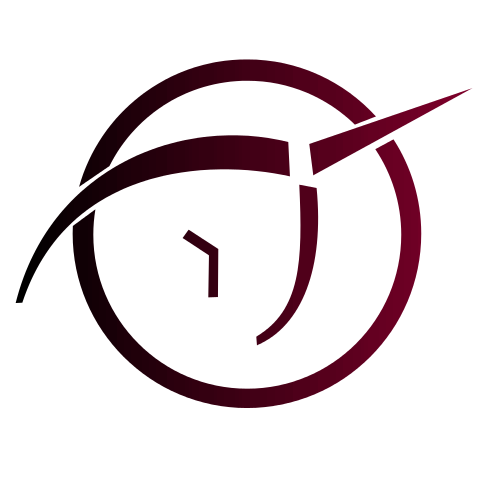
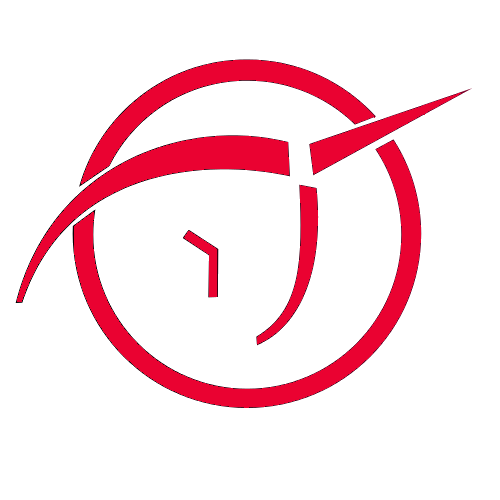
modif du css

diff --git a/ArtcoreParent/ArtcoreWeb/WebContent/web/css/catalogue.css b/ArtcoreParent/ArtcoreWeb/WebContent/web/css/catalogue.css
@@ -21,6 +21,8 @@ table {
 	/*background-color: yellow;*/
 	border-collapse: none;
 }
+
+
 tr {
 	/*background-color: green; prend toute la place de la table*/
 	float: left;
@@ -29,6 +31,10 @@ tr {
 	width: 275px;
 	height : 250px;
 	text-align: center;
+	border: 1px solid #202020;
+    border-radius: 3px;
+    -webkit-box-shadow: 0 2px 5px rgba(0, 0, 0, 0.5);
+    box-shadow: 0 2px 5px rgba(0, 0, 0, 0.5);
 			
 	
 } 
@@ -37,15 +43,18 @@ td {
 	display: block;
 		
 	background: #525252;
-	border: 1px solid #202020;
-    border-radius: 3px;
-    -webkit-box-shadow: 0 2px 5px rgba(0, 0, 0, 0.5);
-    box-shadow: 0 2px 5px rgba(0, 0, 0, 0.5);
+	
+	
+}
+
+.prod tbody tr td a{
+	
+	color: rgb(5,157,231);
 	
 }
 /*Tous les attributs d'un produit : */
 .prodNom {
-	color: blue;
+	color: rgb(5,157,231);
 	width: 100%;
 	font-size: 1.5em;
 }
@@ -131,12 +140,12 @@ html .wrap .form input[type="text"]:focus {
 
 html .wrap .form input[type="text"],
 .button7 {
-   background: #545454;
-   background: -webkit-gradient(linear, left top, left bottom, from(#313538), to(#545454));
-   background: -webkit-linear-gradient(top, #313538, #545454);
-   background: -moz-linear-gradient(top, #313538, #545454);
-   background: -ms-linear-gradient(top, #313538, #545454);
-   background: -o-linear-gradient(top, #313538, #545454);
+   background: #525252;
+   background: -webkit-gradient(linear, left top, left bottom, from(#313538), to(#525252));
+   background: -webkit-linear-gradient(top, #313538, #525252);
+   background: -moz-linear-gradient(top, #313538, #525252);
+   background: -ms-linear-gradient(top, #313538, #525252);
+   background: -o-linear-gradient(top, #313538, #525252);
    padding: 5px 10px;
    -webkit-border-radius: 8px;
    -moz-border-radius: 8px;
@@ -145,7 +154,7 @@ html .wrap .form input[type="text"],
    -moz-box-shadow: rgba(0,0,0,1) 0 1px 0;
    box-shadow: rgba(0,0,0,1) 0 1px 0;
    text-shadow: rgba(0,0,0,.4) 0 1px 0;
-   color: #b55252;
+   color: rgb(234,2,49);
    font-size: 14px;
    font-family: Helvetica, Arial, Sans-Serif;
    text-decoration: none;
@@ -178,7 +187,7 @@ html .wrap .form input[type="text"],
    -moz-box-shadow: rgba(0,0,0,1) 0 1px 0;
    box-shadow: rgba(0,0,0,1) 0 1px 0;
    text-shadow: rgba(0,0,0,.4) 0 1px 0;
-   color: #b55252;
+   color: rgb(234,2,49);
    font-size: 14px;
    font-family: Helvetica, Arial, Sans-Serif;
    text-decoration: none;

diff --git a/ArtcoreParent/ArtcoreWeb/WebContent/web/css/style.css b/ArtcoreParent/ArtcoreWeb/WebContent/web/css/style.css
@@ -4,7 +4,7 @@ License URL: http://creativecommons.org/licenses/by/3.0/
 */
 /* reset */
 html,body,div,span,applet,object,iframe,h1,h2,h3,h4,h5,h6,p,blockquote,pre,a,abbr,acronym,address,big,cite,code,del,dfn,em,img,ins,kbd,q,s,samp,small,strike,strong,sub,sup,tt,var,b,u,i,dl,dt,dd,ol,nav ul,nav li,fieldset,form,label,legend,table,caption,tbody,tfoot,thead,tr,th,td,article,aside,canvas,details,embed,figure,figcaption,header,hgroup,menu,nav,output,ruby,section,summary,time,mark,audio,video{
-	margin:0;padding:0;font-size:100%;font:inherit;vertical-align:baseline;}
+	margin:0;font-size:100%;font:inherit;vertical-align:baseline;}
 html{
 	height: 100%;
 }
@@ -438,7 +438,7 @@ ul.sub_list2 li a:hover{
 .headermiddle {
 	margin-top: 1%;
 	float: left;
-	color:rgb(175,20,30); 
+	color:rgb(234,2,49); 
 	padding: 25px;
 	font-family: 'Bodoni MT', Didot, 'Didot LT STD', 'Hoefler Text', Garamond, 'Times New Roman', serif;
 	font-size: 30px;

diff --git a/ArtcoreParent/ArtcoreDataIEnities/ejbModule/fr/afcepf/al22/artcore/entities/Adresse.java b/ArtcoreParent/ArtcoreDataIEnities/ejbModule/fr/afcepf/al22/artcore/entities/Adresse.java
@@ -23,7 +23,7 @@ public class Adresse implements Serializable {
 	private String libelleAdresse;
 
 	//bi-directional many-to-one association to Admin
-	@OneToMany(mappedBy="adresse")
+	@OneToMany(mappedBy="adresse") 
 	private List<Admin> admins;
 
 	//bi-directional many-to-one association to Pay

diff --git a/ArtcoreParent/ArtcoreBusinessIEntities/ejbModule/fr/afcepf/al22/artcore/businessinterfaces/IBusinessCategorie.java b/ArtcoreParent/ArtcoreBusinessIEntities/ejbModule/fr/afcepf/al22/artcore/businessinterfaces/IBusinessCategorie.java
@@ -24,3 +24,4 @@ public interface IBusinessCategorie {
 	public DtoCategorie categorieParId (int id);
 
 }
+ 
